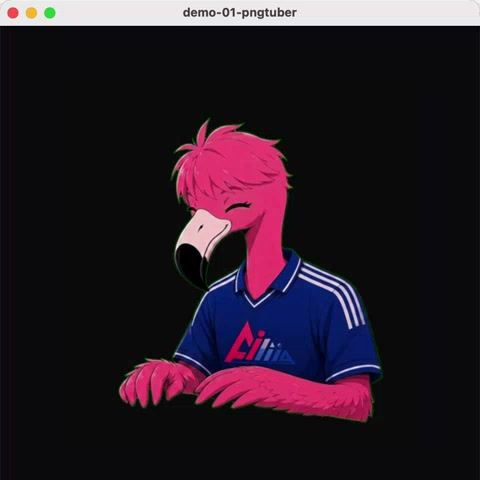
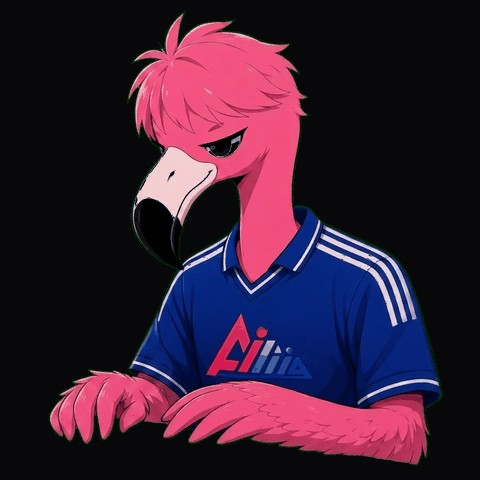
docs: refresh showcase GIFs (clean bg, chibi motion, bust-up 04 demo shot)

diff --git a/04-vroid-base-custom-girl/src/main.ts b/04-vroid-base-custom-girl/src/main.ts
@@ -2,7 +2,7 @@ import * as THREE from 'three'
 import { createMingo } from './model/index'
 import { createTracker } from './tracking/index'
 import { createAliveness } from './aliveness/index'
-import { neutralFrame, type CursorInfo } from './contract'
+import { neutralArm, neutralBody, neutralFrame, type CursorInfo, type RigFrame } from './contract'
 import { drawTrackingOverlay } from './tracking/overlay'
 
 const canvas = document.getElementById('stage') as HTMLCanvasElement
@@ -12,6 +12,9 @@ const overlay = document.getElementById('track-overlay') as HTMLCanvasElement | 
 const overlayCtx = overlay?.getContext('2d') ?? null
 const hud = document.getElementById('track-hud') as HTMLDivElement | null
 const panelBadge = document.getElementById('track-panel-badge')
+
+/** Clean demo mode: no camera UI, scripted motion (for face-free screen recordings) */
+const demoMotion = new URLSearchParams(location.search).get('demoMotion') === '1'
 
 const renderer = new THREE.WebGLRenderer({
   canvas,
@@ -33,8 +36,8 @@ scene.add(mingo.root)
 
 /** 아바타 줌 (1 = 기본, 클수록 멀리 = 더 작게) */
 let avatarZoom = 1.0
-let showTrackPanel = true
-let showTrackHud = true
+let showTrackPanel = !demoMotion
+let showTrackHud = !demoMotion
 
 /**
  * 전신 프레이밍 — PR 원본 그대로.
@@ -50,9 +53,10 @@ function frameCamera() {
   renderer.setScissorTest(false)
 
   const bodyH = Math.max(0.5, mingo.height || 1.5)
-  const lookY = bodyH * 0.52
-  // 1.25 = 전신 + 머리/발 여백 (원본 1.06은 창이 좁으면 타이트)
-  const fitH = bodyH * 1.25 * Math.max(0.85, avatarZoom)
+  // demoMotion: bust-up *camera framing* for showcase GIFs only (model still full-body)
+  const lookY = demoMotion ? bodyH * 0.78 : bodyH * 0.52
+  // 1.25 = 전신 + 머리/발 여백 / demo shot: head–chest only
+  const fitH = (demoMotion ? bodyH * 0.55 : bodyH * 1.25) * Math.max(0.85, avatarZoom)
   const dist = fitH / 2 / Math.tan(THREE.MathUtils.degToRad(camera.fov / 2))
 
   camera.position.set(0, lookY, dist)
@@ -156,7 +160,15 @@ function stopCam() {
   video.srcObject = null
   overlayCtx?.clearRect(0, 0, overlay?.width ?? 0, overlay?.height ?? 0)
 }
-startCam()
+if (!demoMotion) {
+  startCam()
+} else {
+  // Clean recording: no webcam pixels / panel on screen
+  if (trackPanel) trackPanel.style.display = 'none'
+  if (hud) hud.style.display = 'none'
+  showTrackPanel = false
+  showTrackHud = false
+}
 
 // ---------- 트래킹 패널 드래그 (윈도우 안 배치, 잘림 방지 클램프) ----------
 let panelDragging = false
@@ -405,9 +417,71 @@ function loop() {
   const dt = Math.min(clock.getDelta(), 0.1)
   const t = clock.elapsedTime
 
-  const raw = trackingUp ? tracker.latest() : neutralFrame()
-  const frame = aliveness.compose(raw, dt, t, cursor)
-  lastTracked = frame.tracked
+  let frame
+  if (demoMotion) {
+    // Face-free upper-body demo: gentle head + soft arm sway (no wild IK)
+    const mouth = 0.25 + 0.35 * Math.max(0, Math.sin(t * 7.5))
+    const blink = (t % 2.8) < 0.11 ? 1 : 0
+    const yaw = 0.22 * Math.sin(t * 0.7)
+    const pitch = 0.08 * Math.sin(t * 0.95)
+    const roll = 0.05 * Math.sin(t * 1.15)
+    const sway = 0.12 * Math.sin(t * 1.4)
+    const lift = 0.08 * Math.sin(t * 1.1)
+    const L = neutralArm(1)
+    const R = neutralArm(-1)
+    L.present = 0.85
+    R.present = 0.85
+    L.upperDir = { x: 0.22 + sway, y: -0.92 + lift, z: 0.28 }
+    L.lowerDir = { x: 0.16 + sway * 0.5, y: -0.88, z: 0.42 }
+    L.palmNormal = { x: -0.2, y: 0.1, z: 0.97 }
+    L.handDir = { x: 0.12, y: -0.2, z: 0.97 }
+    L.fingers = [0.25, 0.2, 0.22, 0.24, 0.28]
+    L.spread = 0.2
+    L.wave = 0
+    R.upperDir = { x: -0.22 - sway, y: -0.92 + lift * 0.8, z: 0.28 }
+    R.lowerDir = { x: -0.16 - sway * 0.5, y: -0.88, z: 0.42 }
+    R.palmNormal = { x: 0.2, y: 0.1, z: 0.97 }
+    R.handDir = { x: -0.12, y: -0.2, z: 0.97 }
+    R.fingers = [0.25, 0.2, 0.22, 0.24, 0.28]
+    R.spread = 0.2
+    R.wave = 0
+    const n3 = (v: { x: number; y: number; z: number }) => {
+      const l = Math.hypot(v.x, v.y, v.z) || 1
+      return { x: v.x / l, y: v.y / l, z: v.z / l }
+    }
+    L.upperDir = n3(L.upperDir); L.lowerDir = n3(L.lowerDir)
+    R.upperDir = n3(R.upperDir); R.lowerDir = n3(R.lowerDir)
+    L.palmNormal = n3(L.palmNormal); L.handDir = n3(L.handDir)
+    R.palmNormal = n3(R.palmNormal); R.handDir = n3(R.handDir)
+    const demo: RigFrame = {
+      tracked: 1,
+      head: { pitch, yaw, roll },
+      gaze: { x: 0.28 * Math.sin(t * 0.65), y: 0.1 * Math.sin(t * 0.85) },
+      blinkL: blink,
+      blinkR: blink,
+      browL: 0.08 * Math.sin(t * 0.45),
+      browR: 0.08 * Math.sin(t * 0.45),
+      mouthOpen: mouth,
+      mouthSmile: 0.28 + 0.12 * Math.sin(t * 0.55),
+      armL: L,
+      armR: R,
+      body: {
+        ...neutralBody(),
+        present: 0.5,
+        lean: { x: 0.03 * Math.sin(t * 0.75), z: 0.02 * Math.sin(t * 0.9) },
+        twist: 0.05 * Math.sin(t * 0.5),
+        legsPresent: 0,
+      },
+      fx: { heart: false, happy: mouth > 0.55, sweat: false, anger: false },
+      breath: (Math.sin(t * 1.5) + 1) * 0.5,
+    }
+    frame = demo
+    lastTracked = 1
+  } else {
+    const raw = trackingUp ? tracker.latest() : neutralFrame()
+    frame = aliveness.compose(raw, dt, t, cursor)
+    lastTracked = frame.tracked
+  }
   mingo.apply(frame, dt, t)
 
   // ---- 카메라 + 노드/엣지 디버그 패널 ----
@@ -593,7 +667,7 @@ function setPipelineVisible(visible: boolean) {
   } else {
     pipelinePaused = false
     camWanted = true
-    startCam()
+    if (!demoMotion) startCam()
     clock.getDelta() // 숨김 기간 델타 플러시 (복귀 프레임 점프 방지)
     cancelAnimationFrame(rafId) // 중복 루프 방지
     loop()

diff --git a/demos/render_showcase_gifs.py b/demos/render_showcase_gifs.py
@@ -1,0 +1,182 @@
+#!/usr/bin/env python3
+"""Offline showcase GIFs for README — pure black bg, no face, clear motion."""
+from __future__ import annotations
+
+import math
+from pathlib import Path
+
+import numpy as np
+from PIL import Image
+
+ROOT = Path(__file__).resolve().parent.parent
+OUT = Path(__file__).resolve().parent
+DISP = 480
+BG = (8, 8, 10, 255)
+
+
+def to_square(im: Image.Image, size: int = DISP, bg=BG) -> Image.Image:
+    im = im.convert("RGBA")
+    im.thumbnail((size, size), Image.Resampling.LANCZOS)
+    sq = Image.new("RGBA", (size, size), bg)
+    sq.alpha_composite(im, ((size - im.width) // 2, (size - im.height) // 2))
+    return sq
+
+
+def save_gif(frames: list[Image.Image], path: Path, duration: int = 70) -> None:
+    rgb = [f.convert("RGB") for f in frames]
+    rgb[0].save(
+        path,
+        save_all=True,
+        append_images=rgb[1:],
+        duration=duration,
+        loop=0,
+        optimize=True,
+    )
+    print(f"wrote {path} ({path.stat().st_size // 1024}KB, {len(frames)}f)")
+
+
+# ---------- 01: 4cut PNGTuber ----------
+def chroma_key(img: Image.Image) -> Image.Image:
+    arr = np.array(img.convert("RGBA"))
+    r, g, b, a = arr[:, :, 0], arr[:, :, 1], arr[:, :, 2], arr[:, :, 3]
+    # aggressive green screen removal
+    green = (g > 120) & (g > r + 25) & (g > b + 25)
+    # also near-solid green fringe
+    green |= (g > 100) & (r < 90) & (b < 90)
+    arr[green, 3] = 0
+    return Image.fromarray(arr, "RGBA")
+
+
+def render_01() -> None:
+    assets = ROOT / "01-mingo-4cut" / "assets"
+    keys = {
+        "idle": "1_green_idle.png",
+        "talk": "2_green_talk.png",
+        "blink": "3_green_blink.png",
+        "talk_blink": "4_green_talk_blink.png",
+    }
+    spr = {k: chroma_key(Image.open(assets / fn)) for k, fn in keys.items()}
+    # crop to content bbox with padding
+    def content(im: Image.Image) -> Image.Image:
+        a = np.array(im)
+        ys, xs = np.where(a[:, :, 3] > 12)
+        if len(xs) == 0:
+            return im
+        pad = 24
+        x0, x1 = max(0, xs.min() - pad), min(im.width, xs.max() + pad)
+        y0, y1 = max(0, ys.min() - pad), min(im.height, ys.max() + pad)
+        return im.crop((x0, y0, x1, y1))
+
+    spr = {k: content(v) for k, v in spr.items()}
+    frames: list[Image.Image] = []
+    n = 72
+    for i in range(n):
+        t = i / 12.0
+        mouth = (math.sin(t * 9.0) > 0.05) and ((int(t) % 5) < 3)
+        blink = (t % 2.7) < 0.14
+        if blink and mouth:
+            key = "talk_blink"
+        elif blink:
+            key = "blink"
+        elif mouth:
+            key = "talk"
+        else:
+            key = "idle"
+        im = spr[key].copy()
+        # subtle sway via offset on black canvas
+        dx = int(10 * math.sin(t * 1.2))
+        dy = int(6 * math.sin(t * 1.8))
+        base = to_square(im)
+        # re-center with sway
+        layer = to_square(im)
+        canvas = Image.new("RGBA", (DISP, DISP), BG)
+        # paste with sway (clip)
+        canvas.alpha_composite(layer, (dx, dy))
+        # fill edges still black
+        frames.append(canvas)
+    save_gif(frames, OUT / "01-pngtuber.gif", duration=70)
+    frames[8].convert("RGB").save(OUT / "01-preview.jpg", quality=90)
+
+
+# ---------- 02: chibi 2.5 with head tilt + hand swap ----------
+def render_02() -> None:
+    parts_dir = ROOT / "02-chibi-25d" / "parts"
+    names = [
+        "topwear",
+        "face",
+        "eyewhite",
+        "irides",
+        "eyelash",
+        "eye_close",
+        "mouth_open",
+        "mouth_close",
+        "handwear_1",
+        "handwear_2",
+    ]
+    imgs = {
+        n: Image.open(parts_dir / f"{n}.png").convert("RGBA")
+        for n in names
+        if (parts_dir / f"{n}.png").exists()
+    }
+    w = max(i.width for i in imgs.values())
+    h = max(i.height for i in imgs.values())
+
+    def paste(canvas: Image.Image, name: str, dx=0, dy=0, angle=0.0, show=True):
+        if not show or name not in imgs:
+            return
+        im = imgs[name]
+        if abs(angle) > 0.05:
+            # rotate around canvas center
+            im = im.rotate(angle, resample=Image.Resampling.BICUBIC, expand=False)
+        x = (w - im.width) // 2 + dx
+        y = (h - im.height) // 2 + dy
+        canvas.alpha_composite(im, (x, y))
+
+    def compose(blink: bool, mouth_open: bool, head_deg: float, iris_dx: int, iris_dy: int, hand: int, bob: int):
+        canvas = Image.new("RGBA", (w, h), (0, 0, 0, 0))
+        # body (no head tilt)
+        paste(canvas, "topwear", dy=bob)
+        # head group tilts together
+        paste(canvas, "face", angle=head_deg, dy=bob)
+        if blink and "eye_close" in imgs:
+            paste(canvas, "eye_close", angle=head_deg, dy=bob)
+        else:
+            paste(canvas, "eyewhite", angle=head_deg, dy=bob)
+            paste(canvas, "irides", dx=iris_dx, dy=iris_dy + bob, angle=head_deg)
+            paste(canvas, "eyelash", angle=head_deg, dy=bob)
+        paste(canvas, "mouth_open", angle=head_deg, dy=bob, show=mouth_open)
+        paste(canvas, "mouth_close", angle=head_deg, dy=bob, show=not mouth_open)
+        # hands: alternate / offset for pose change
+        if hand == 0:
+            paste(canvas, "handwear_1", dy=bob)
+            paste(canvas, "handwear_2", dy=bob)
+        elif hand == 1:
+            # only left-ish hand raised
+            paste(canvas, "handwear_1", dx=-18, dy=bob - 22)
+            paste(canvas, "handwear_2", dx=8, dy=bob + 6)
+        else:
+            paste(canvas, "handwear_1", dx=10, dy=bob + 8)
+            paste(canvas, "handwear_2", dx=22, dy=bob - 18)
+        return to_square(canvas)
+
+    frames: list[Image.Image] = []
+    n = 84
+    for i in range(n):
+        t = i / 12.0
+        blink = (t % 2.8) < 0.14
+        mouth = (math.sin(t * 9.5) > 0.1) and ((int(t * 0.45) % 2) == 0 or (t % 7) < 4)
+        head = 8.0 * math.sin(t * 0.85)  # degrees
+        iris_dx = int(14 * math.sin(t * 1.1) + head * 0.4)
+        iris_dy = int(5 * math.sin(t * 1.4))
+        # hand pose cycles every ~2s
+        hand = int(t / 2.0) % 3
+        bob = int(3 * math.sin(t * 2.1))
+        frames.append(compose(blink, mouth, head, iris_dx, iris_dy, hand, bob))
+    save_gif(frames, OUT / "02-chibi25d.gif", duration=70)
+    frames[12].convert("RGB").save(OUT / "02-preview.jpg", quality=90)
+
+
+if __name__ == "__main__":
+    render_01()
+    render_02()
+    print("01/02 done — render 04 via electron demoMotion separately")

diff --git a/README.md b/README.md
@@ -17,12 +17,13 @@
 
 ## 미리보기 (모션 데모)
 
-검은 배경 · 얼굴/웹캠 UI 없음 · 아바타만 움직이도록 녹화한 데모 GIF.
+검은 배경 · 얼굴/웹캠 UI 없음 · 아바타만 움직이도록 녹화한 데모 GIF.  
+(04는 **데모 촬영만** 상반신 프레이밍 — 모델 자체는 전신 유지)
 
 | 01 · 4컷 PNGTuber | 02 · 치비 2.5D | 04 · VRM 3D |
 |:--:|:--:|:--:|
 | ![01](demos/01-pngtuber.gif) | ![02](demos/02-chibi25d.gif) | ![04](demos/04-vroid.gif) |
-| 입 뻐끔 · 깜빡 · 흔들림 | 시선 · 입 · 깜빡 · 바운스 | 고개 · 표정 · 팔 웨이브 |
+| 입 · 깜빡 · 흔들림 (순수 흑배경) | 고개 기울기 · 시선 · 손 포즈 · 입/깜빡 | 상반신 구도 · 고개/표정 · 부드러운 팔 |
 
 > 데모는 **설명용 스크립트 모션**이다 (얼굴이 영상에 안 나오게).  
 > 실제 앱은 웹캠 Face/Pose 트래킹으로 구동한다. 소스: [`demos/`](demos/)
